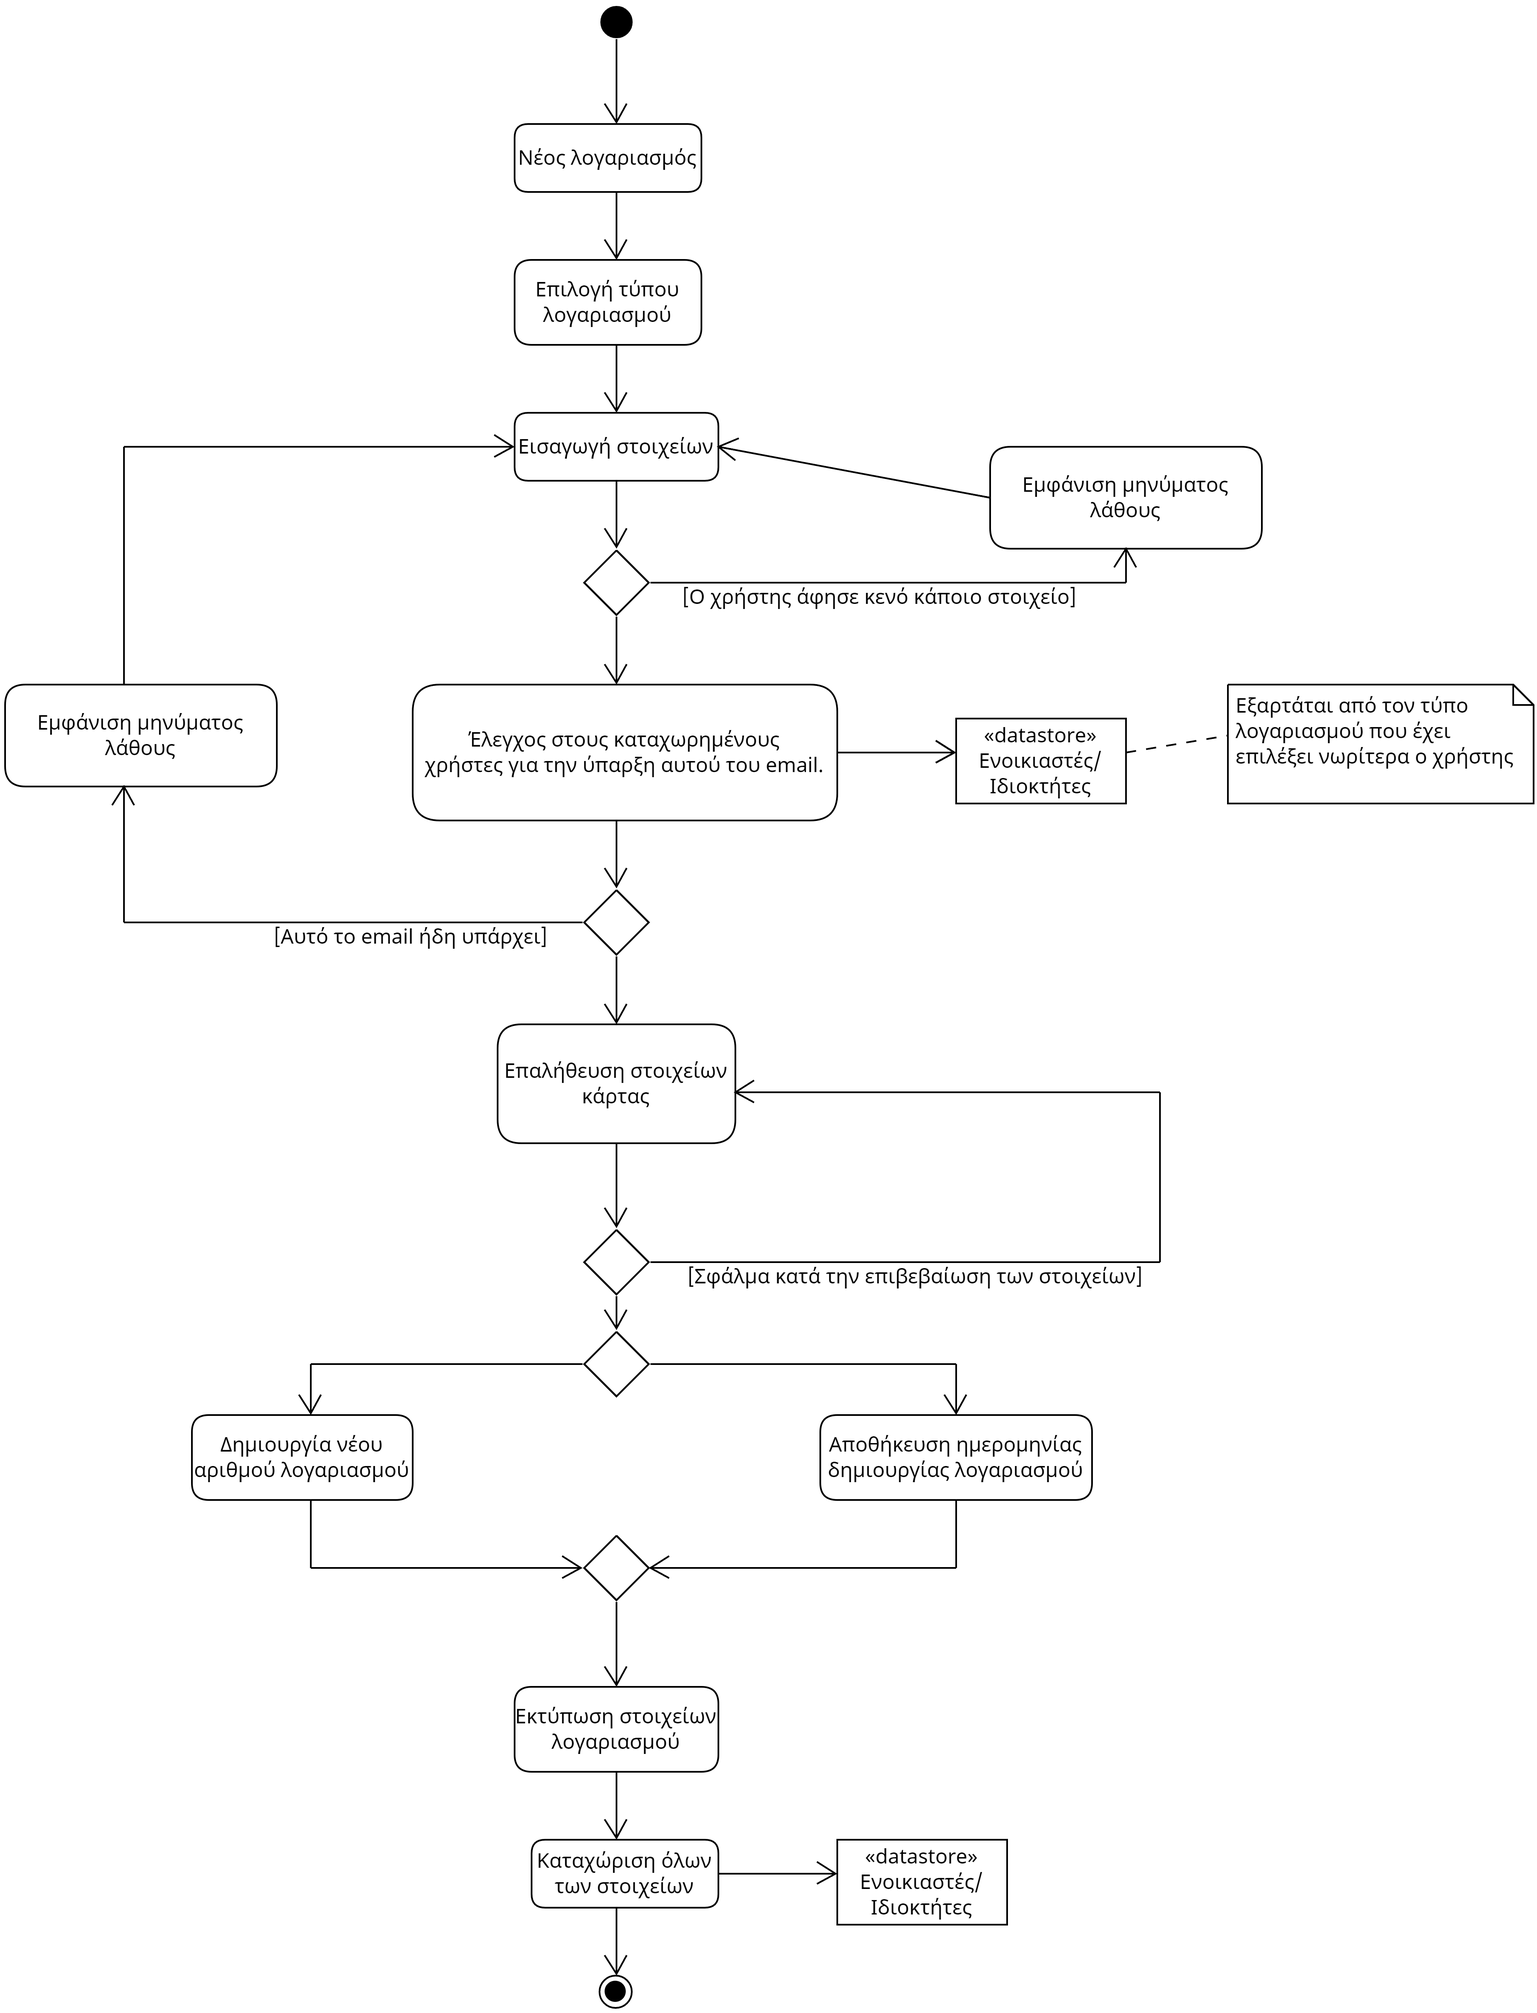
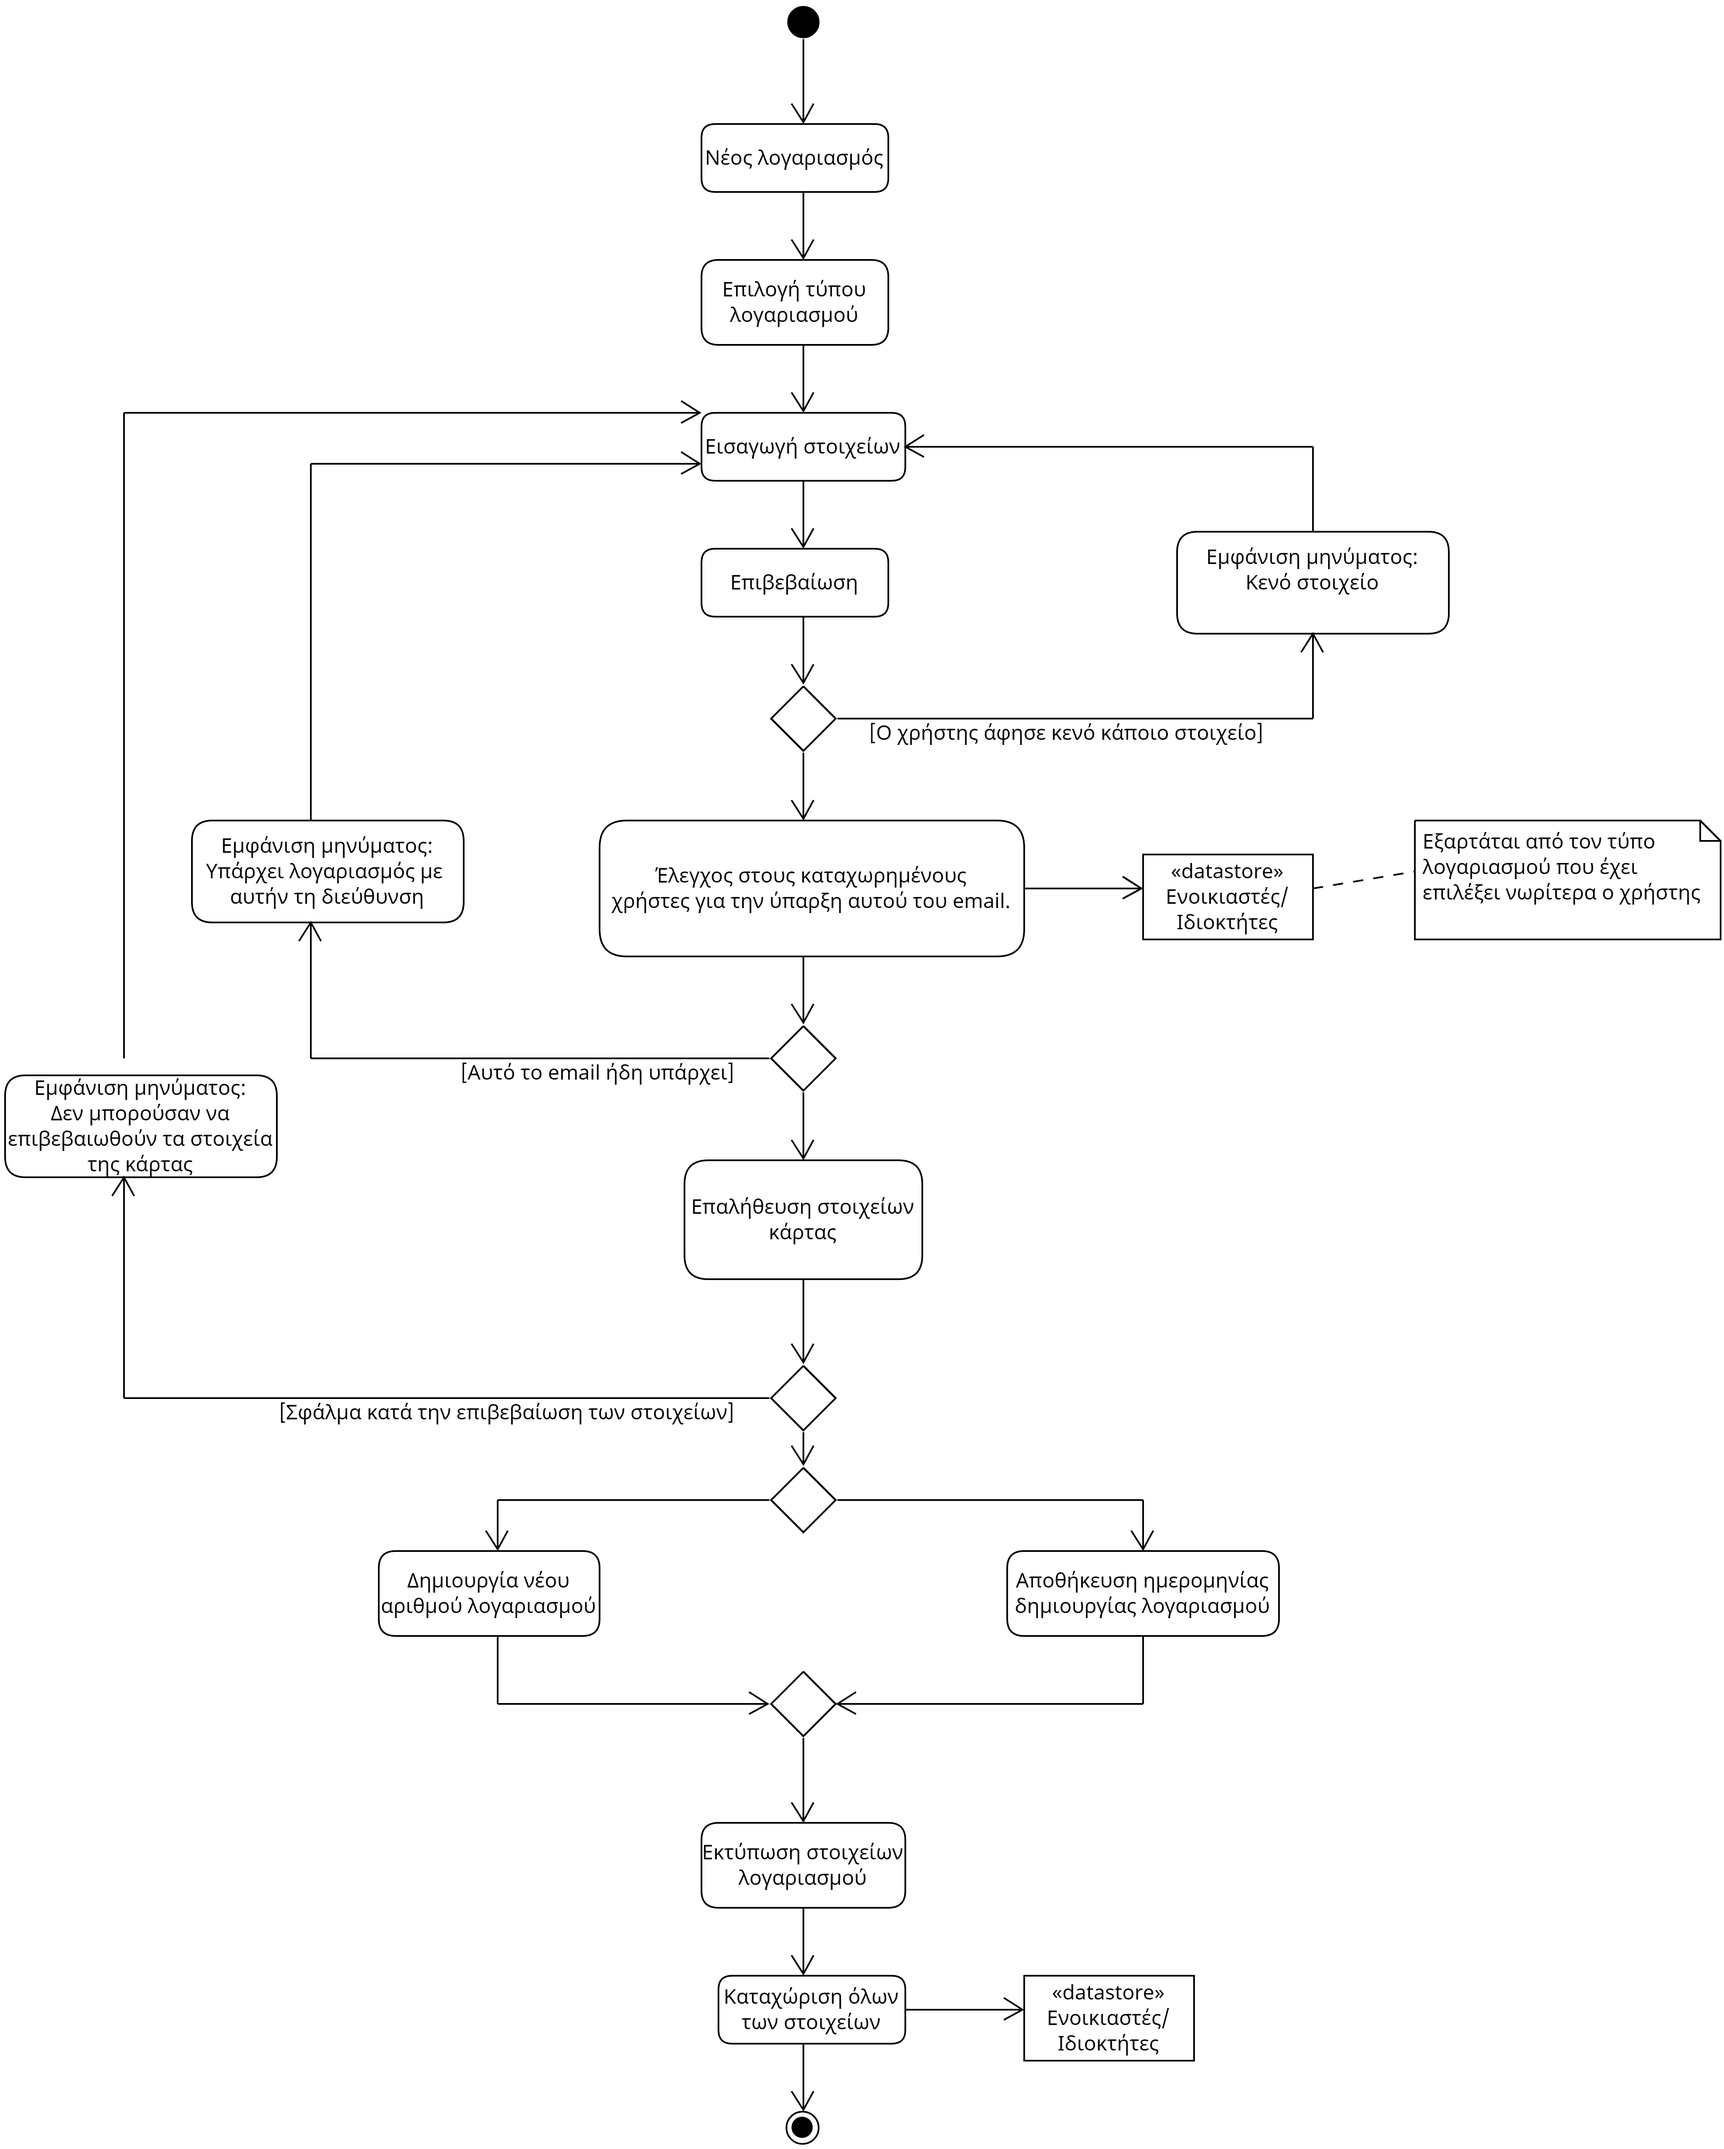
seq uc1_user, uc2_user

diff --git a/docs/markdown/uc1_user_account_creation.md b/docs/markdown/uc1_user_account_creation.md
@@ -13,37 +13,37 @@
 1. Ο χρήστης επιλέγει τη δημιουργία νέου λογαριασμού.
 2. Το σύστημα ρωτάει τον χρήστη αν θα ήθελε να δημιουργήσει λογαριασμό ενοικιαστή ή ιδιοκτήτη.
 3. Ο χρήστης εισάγει τα απαραίτητα στοιχεία (όνομα, επώνυμο, email, κωδικό και πιστωτική κάρτα).
-4. Το σύστημα αναζητά στον κατάλογο που είναι καταχωρημένες όλες οι εγγραφές για το συγεκριμένο email που έβαλε ο χρήστης.
-5. Το σύστημα επιβεβαιώνει ότι τα στοιχεία της πιστωτικής κάρτας είναι σωστά.
-6. Το σύστημα παράγει έναν νέο αριθμό λογαριασμού και εισάγει την τρέχουσα ημερομηνία ως ημερομηνία ανοίγματος.
-7. Το σύστημα εκτυπώνει τα στοιχεία του λογαριασμού.
-8. Το σύστημα καταχωρεί όλα τα δεδομένα για την εγγραφή του χρήστη.
+4. Ο χρήστης πατάει επιβεβαίωση στοιχείων.
+5. Το σύστημα αναζητά στον κατάλογο που είναι καταχωρημένες όλες οι εγγραφές για το συγεκριμένο email που έβαλε ο χρήστης.
+6. Το σύστημα επιβεβαιώνει ότι τα στοιχεία της πιστωτικής κάρτας είναι σωστά.
+7. Το σύστημα παράγει έναν νέο αριθμό λογαριασμού και εισάγει την τρέχουσα ημερομηνία ως ημερομηνία ανοίγματος.
+8. Το σύστημα εκτυπώνει τα στοιχεία του λογαριασμού.
+9. Το σύστημα καταχωρεί όλα τα δεδομένα για την εγγραφή του χρήστη.
 
 ## Εναλλακτικές Ροές
 
-*3α. Ο χρήστης δεν συμπληρώνει κάποιο απαραίτητο στοιχείο*
+*4α. Ο χρήστης δεν συμπληρώνει κάποιο απαραίτητο στοιχείο*
 
 1. Το σύστημα εμφανίζει ένα μήμυμα σφάλματος για το ποιό στοιχείο ξέχασε να συμπληρώσει ο χρήστης.
 2. Επιστροφή στο βήμα 3.
 
-*3β. Ο χρήστης εισάγει email που ήδη είναι καταχωρημένο*
+*5α. Ο χρήστης εισάγει email που ήδη είναι καταχωρημένο*
 
 1. Το σύστημα εμφανίζει ένα μήμυμα σφάλματος ενημερώνοντας τον χρήστη πως αυτό το email ήδη χρησιμοποιείται.
 2. Επιστροφή στο βήμα 3.
 
-*4α. Βρέθηκε χρήστης με παρόμοιο email*
-
-1. Το σύστημα εμφανίζει ένα μήνυμα στον χρήστη ενημερώνοντάς τον για το σφάλμα εγγραφής.
-2. Επιστροφή στο βήμα 3.
-
-*5α. Προέκυψε σφάλμα κατά την επαλήθευση των στοιχείων της πιστωτικής κάρτας*
+*6α. Προέκυψε σφάλμα κατά την επαλήθευση των στοιχείων της πιστωτικής κάρτας*
 
 1. Το σύστημα εμφανίζει ένα μήνυμα σφάλματος σχετικά με τον λόγο για τον οποίο προέκυψε το σφάλμα (πχ η εφαρμογή δεν μπόρεσε να επικοινωνήσει με την τράπεζα ή τα στοιχεία της κάρτας δεν ήταν σωστά).
-2. Επιστροφή στο βήμα 4.
+2. Επιστροφή στο βήμα 3.
 
 ## Διαγράμματα
 
 ### Διάγραμμα δραστηριότητας - Δημιουργία λογαριασμού
 
 ![Διάγραμμα δραστηριότητας - Δημιουργία λογαριασμού](/docs/markdown/uml/requirements/uc1_act_user_account_creation.png)
+
+### Διάγραμμα ακολουθίας - Δημιουργία λογαριασμού
+
+![Διάγραμμα ακολουθίας - Δημιουργία λογαριασμού](/docs/markdown/uml/requirements/uc1_seq_user_account_creation.png)
 

diff --git a/docs/markdown/uc2_user_account_login.md b/docs/markdown/uc2_user_account_login.md
@@ -13,11 +13,12 @@
 1. Ο χρήστης επιλέγει να συνδεθεί.
 2. Το σύστημα ρωτάει τον χρήστη αν θα ήθελε να συνδεθεί ως ιδιοκτήτης ή ως ενοικιαστής.
 3. Ο χρήστης εισάγει το email του και τον κωδικό πρόσβασης.
-4. Ο χρήστης αποκτά πρόσβαση στην εφαρμογή.
+4. Ο χρήστης πατάει LogIn.
+5. Ο χρήστης αποκτά πρόσβαση στην εφαρμογή.
 
 ## Εναλλακτικές Ροές
 
-*3α. Ο χρήστης δεν είναι εγγεγραμμένος στο σύστημα*
+*4α. Ο χρήστης δεν είναι εγγεγραμμένος στο σύστημα*
 
 1. Το σύστημα ζητάει από τον χρήστη να κάνει [εγγραφή στο σύστημα](uc1_user_account_creation.md "Συμπερίληψη σεναρίου χρήσης [ΠΧ Εγγραφή στο σύστημα]"). 
     * *1α. Δεν είναι δυνατή η εγγραφή του χρήστη*<br>
@@ -25,7 +26,12 @@
       1. Τερματισμός περίπτωσης χρήσης. 
 2. Η περίπτωση χρήσης επιστρέφει στο βήμα 3 της βασικής ροής.
 
-*3β. Ο χρήστης εισάγει λανθασμένο κωδικό πρόσβασης*
+*4β. Ο χρήστης αφήνει κάποιο στοιχείο κενό*
+
+1. Το σύστημα εμφανίζει μήνυμα λάθους για κενό στοιχείο στον χρήστη.
+2. Η περίπτωση χρήσης επιστρέφει στο βήμα 3 της βασικής ροής.
+
+*4γ. Ο χρήστης εισάγει λανθασμένο κωδικό πρόσβασης*
 
 1. Το σύστημα εμφανίζει μήνυμα λάθους για τα στοιχεία που εισήγαγε ο χρήστης.
 2. Η περίπτωση χρήσης επιστρέφει στο βήμα 3 της βασικής ροής.
@@ -35,3 +41,7 @@
 ### Διάγραμμα δραστηριότητας - Σύνδεση
 
 ![Διάγραμμα δραστηριότητας - Σύνδεση](/docs/markdown/uml/requirements/uc2_act_user_account_login.png)
+
+### Διάγραμμα ακολουθίας - Σύνδεση
+
+![Διάγραμμα ακολουθίας - Σύνδεση](/docs/markdown/uml/requirements/uc2_seq_user_account_login.png)
